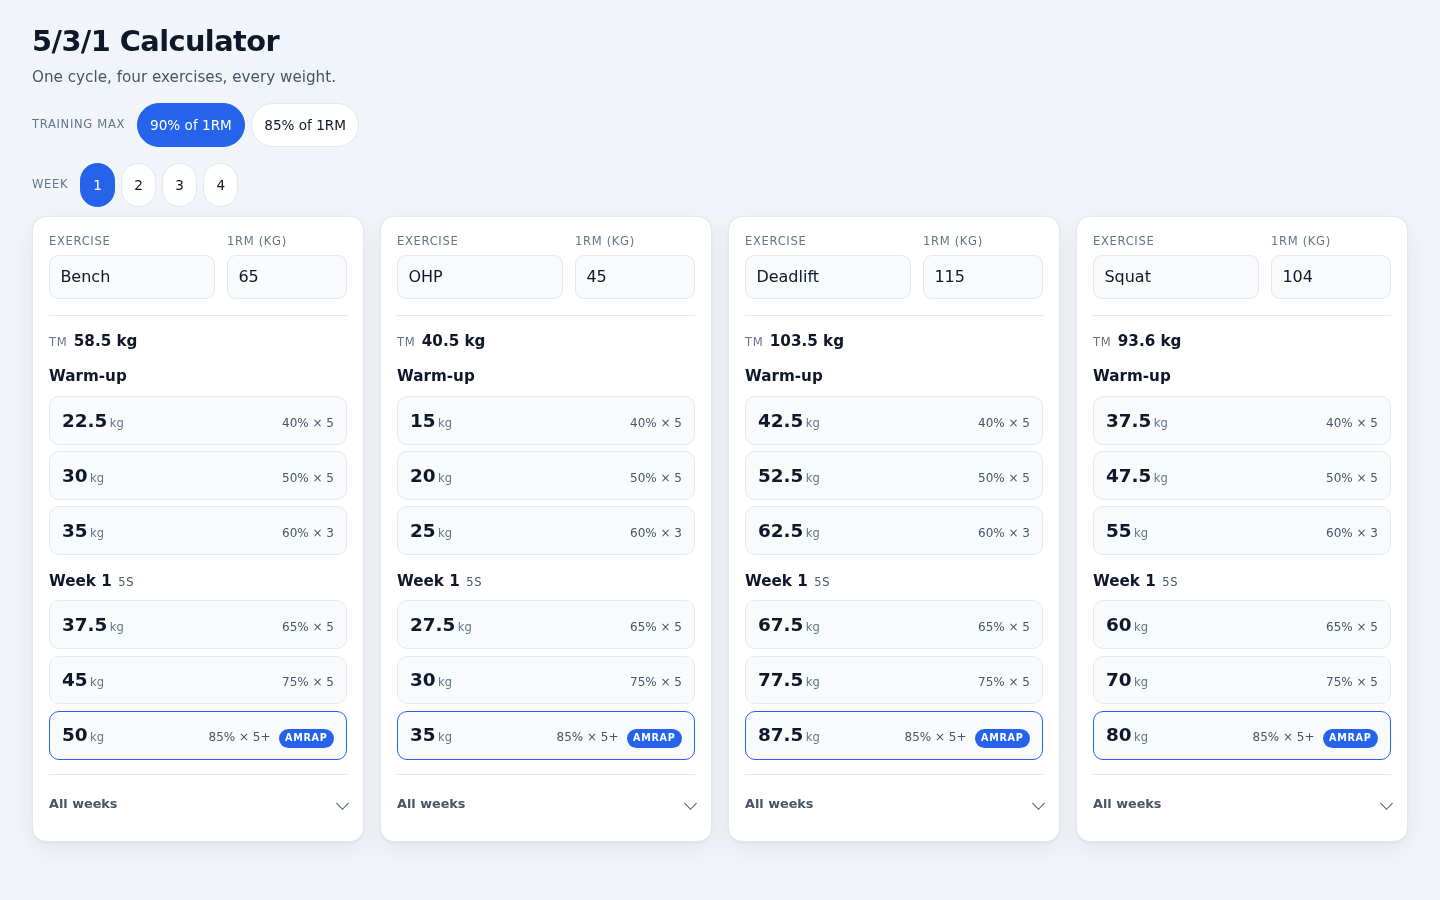
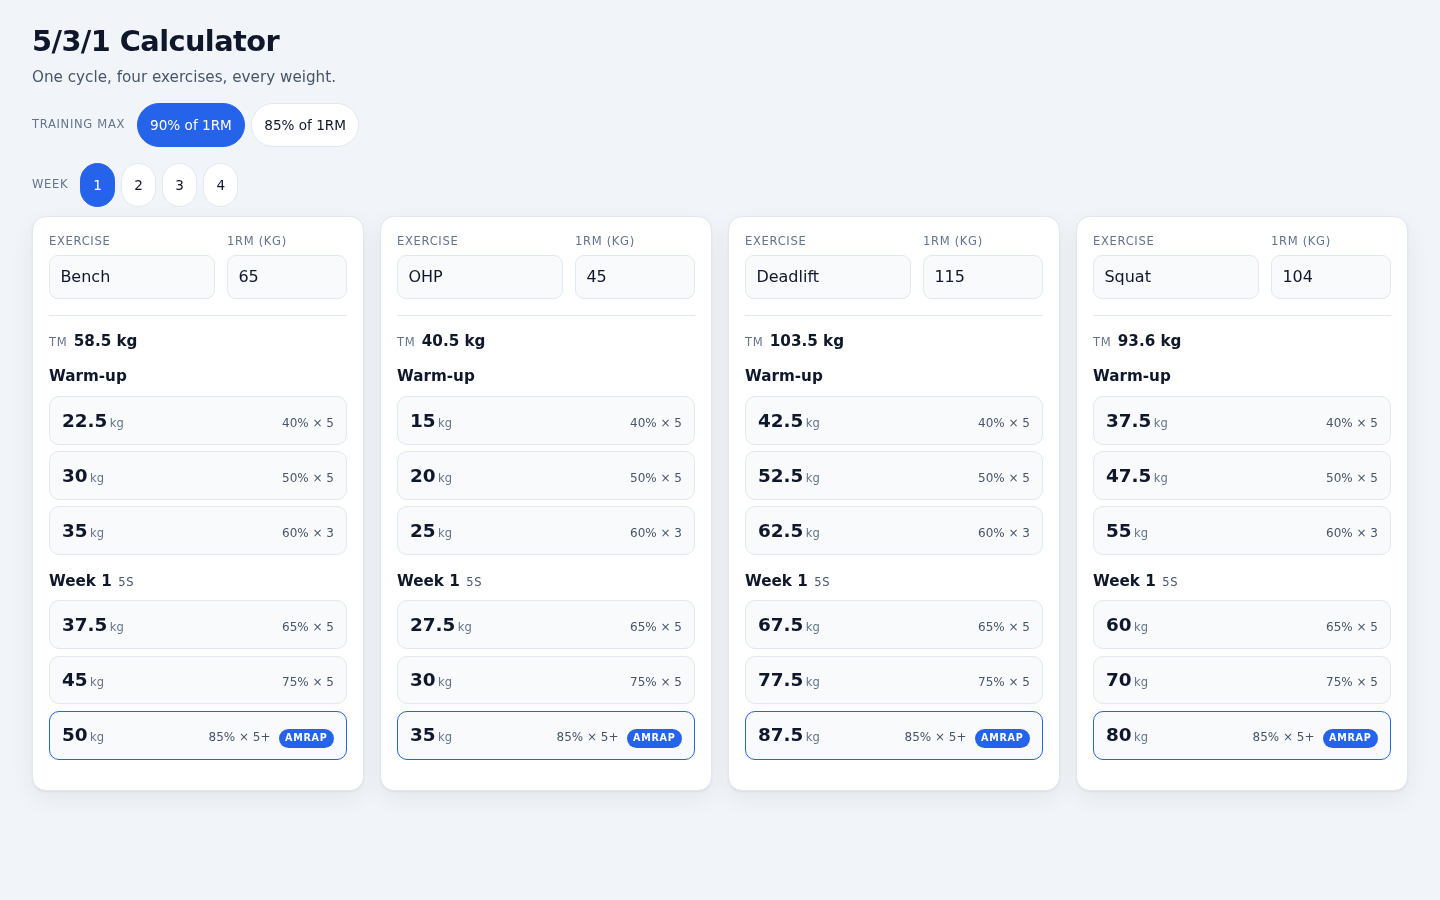
Focus results on current-week working sets
- Remove the all-weeks results table and its styles
- Update review screenshots

Changed region(s): [[0.2812, 0.8711, 0.7188, 0.9022], [0.75, 0.8711, 0.9688, 0.9022], [0.0312, 0.8711, 0.25, 0.9022]]

diff --git a/src/app.js b/src/app.js
@@ -66,12 +66,6 @@ function amrapTag(set) {
   return set.amrap ? '<span class="amrap-tag">AMRAP</span>' : "";
 }
 
-function setCell(set) {
-  return `
-    <span class="weight">${String(set.weight)}<span class="unit">kg</span></span>
-    <span class="meta">${percentAndReps(set)}</span>${amrapTag(set)}`;
-}
-
 function warmupSet(set) {
   return `
     <li class="now-set">
@@ -113,29 +107,6 @@ function nowBlock(cycle, weekIndex) {
     </div>`;
 }
 
-function allWeeks(cycle, weekIndex) {
-  const rows = cycle.weeks
-    .map(
-      (week, index) => `
-      <tr class="${index === weekIndex ? "is-current" : ""}">
-        <th scope="row">${week.name}</th>
-        ${week.sets.map((set) => `<td>${setCell(set)}</td>`).join("")}
-      </tr>`,
-    )
-    .join("");
-
-  return `
-    <details class="all-weeks">
-      <summary>All weeks</summary>
-      <table class="grid">
-        <thead>
-          <tr><th></th><th>Set 1</th><th>Set 2</th><th>Set 3</th></tr>
-        </thead>
-        <tbody>${rows}</tbody>
-      </table>
-    </details>`;
-}
-
 function renderResults(cycle, weekIndex) {
   return `
     <div class="tm-line">
@@ -143,8 +114,7 @@ function renderResults(cycle, weekIndex) {
       <b>${String(cycle.trainingMax)} kg</b>
     </div>
     ${warmupBlock(cycle)}
-    ${nowBlock(cycle, weekIndex)}
-    ${allWeeks(cycle, weekIndex)}`;
+    ${nowBlock(cycle, weekIndex)}`;
 }
 
 function buildCard(index) {
@@ -157,7 +127,6 @@ function buildCard(index) {
   rmInput.value = oneRepMaxes[index] ?? "";
 
   const refresh = () => {
-    const wasOpen = results.querySelector(".all-weeks")?.open ?? false;
     const cycle = buildCycle(rmInput.value, tmPercent);
     if (!cycle) {
       const raw = rmInput.value.trim();
@@ -166,8 +135,6 @@ function buildCard(index) {
       return;
     }
     results.innerHTML = renderResults(cycle, currentWeek - 1);
-    const details = results.querySelector(".all-weeks");
-    if (details && wasOpen) details.open = true;
     results.hidden = false;
   };
 

diff --git a/src/style.css b/src/style.css
@@ -324,107 +324,8 @@ body {
   text-transform: uppercase;
 }
 
-.all-weeks {
-  margin-top: 0.9rem;
-  border-top: 1px solid var(--border);
-  padding-top: 0.4rem;
-}
-
-.all-weeks summary {
-  display: flex;
-  align-items: center;
-  gap: 0.4rem;
-  min-height: 44px;
-  cursor: pointer;
-  list-style: none;
-  font-size: 0.8rem;
-  font-weight: 600;
-  color: var(--muted-strong);
-}
-
-.all-weeks summary:hover {
-  color: var(--accent);
-}
-
-.all-weeks summary:focus-visible {
-  outline: 2px solid var(--accent);
-  outline-offset: 2px;
-  border-radius: 6px;
-}
-
-.all-weeks summary::-webkit-details-marker {
-  display: none;
-}
-
-.all-weeks summary::after {
-  content: "";
-  width: 0.5rem;
-  height: 0.5rem;
-  margin-left: auto;
-  border-right: 1.5px solid currentColor;
-  border-bottom: 1.5px solid currentColor;
-  transform: rotate(45deg);
-  transition: transform 150ms ease;
-}
-
-.all-weeks[open] summary::after {
-  transform: rotate(-135deg);
-}
-
-.all-weeks[open] summary {
-  margin-bottom: 0.6rem;
-  border-bottom: 1px solid var(--border);
-}
-
 .warmup {
   margin-bottom: 0.9rem;
-}
-
-.grid {
-  width: 100%;
-  border-collapse: collapse;
-  font-variant-numeric: tabular-nums;
-}
-
-.grid th,
-.grid td {
-  text-align: left;
-  padding: 0.4rem 0.5rem;
-  border-bottom: 1px solid var(--border);
-  vertical-align: top;
-}
-
-.grid thead th {
-  font-size: 0.72rem;
-  text-transform: uppercase;
-  letter-spacing: 0.06em;
-  color: var(--muted);
-  font-weight: 600;
-}
-
-.grid tbody th {
-  font-size: 0.85rem;
-  font-weight: 600;
-  color: var(--muted);
-  white-space: nowrap;
-}
-
-.grid tbody tr.is-current th,
-.grid tbody tr.is-current td {
-  background: var(--surface-2);
-}
-
-.grid tbody tr.is-current th {
-  color: var(--text);
-}
-
-.grid tbody tr:last-child th,
-.grid tbody tr:last-child td {
-  border-bottom: 0;
-}
-
-.grid .amrap-tag {
-  margin-top: 0.3rem;
 }
 
 .weight {
